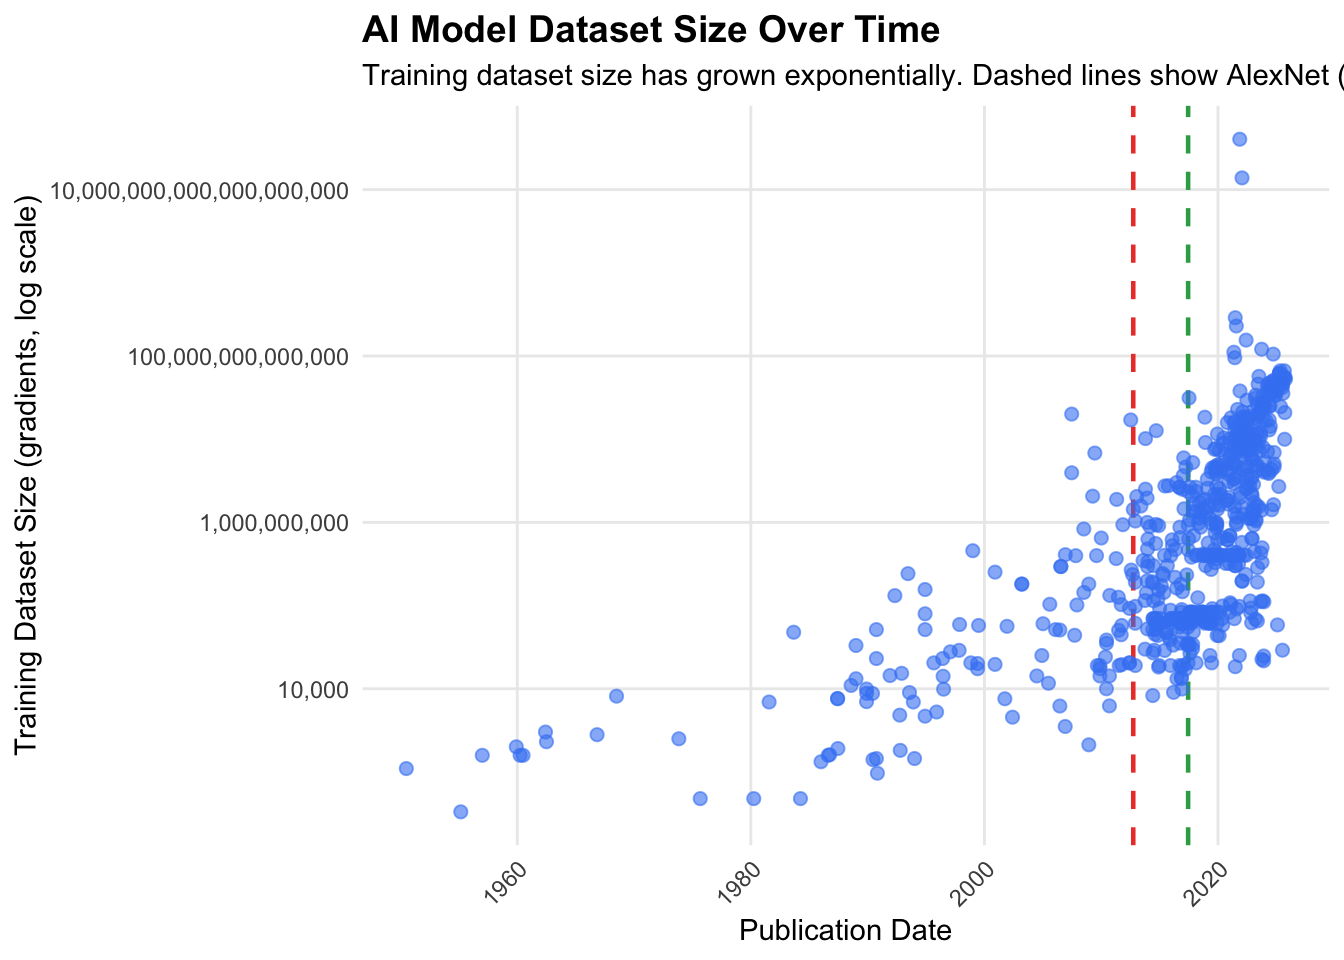
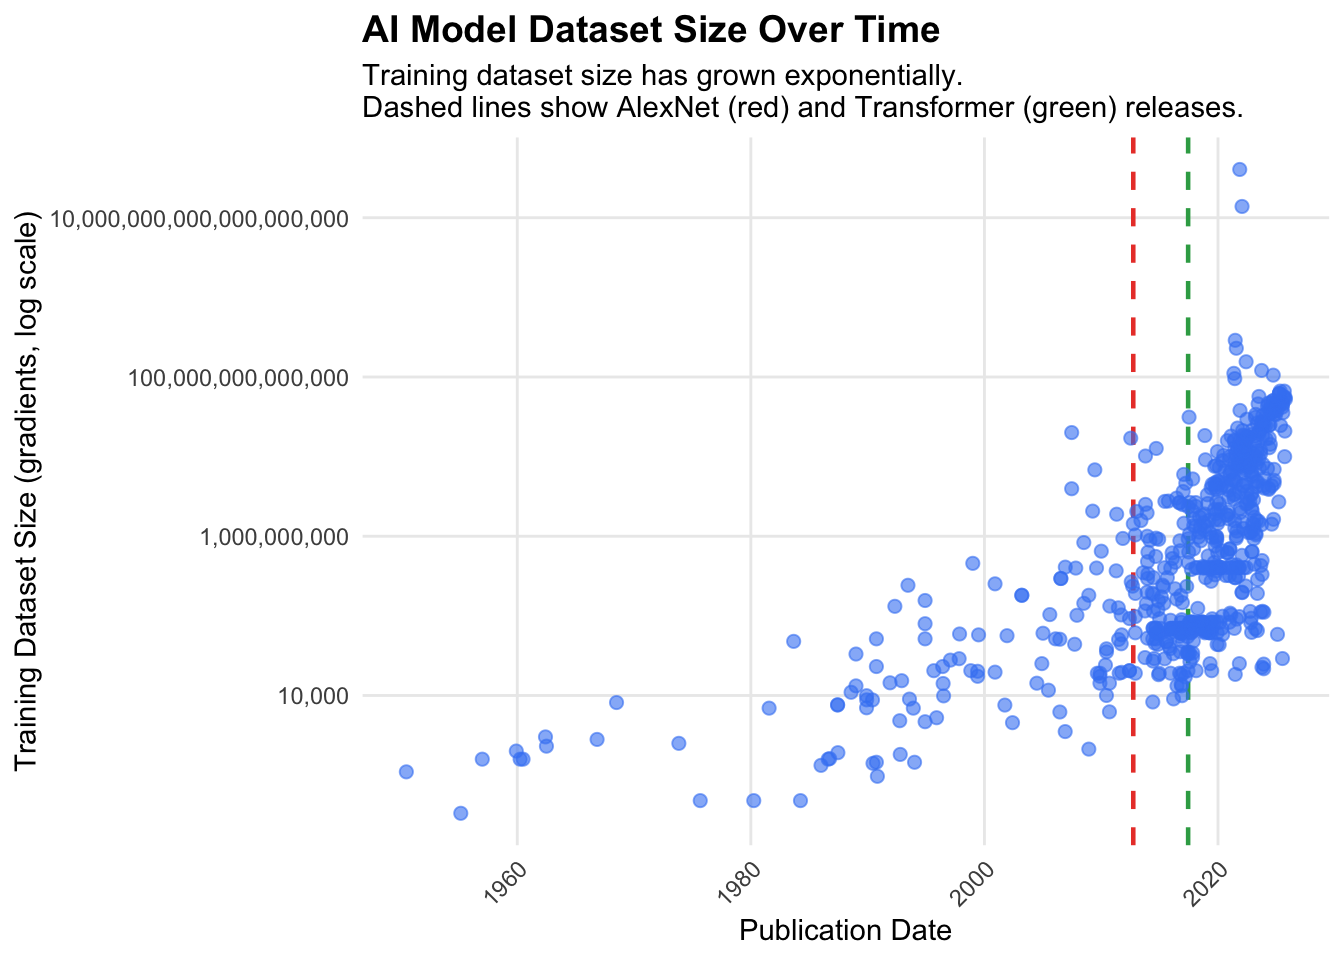
adding some missing value analysis

diff --git a/docs/results.html b/docs/results.html
@@ -501,7 +501,7 @@ pre > code.sourceCode > span > a:first-child::before { text-decoration: underlin
 <span id="cb6-68"><a href="#cb6-68" aria-hidden="true" tabindex="-1"></a>  <span class="co"># Labels and theme</span></span>
 <span id="cb6-69"><a href="#cb6-69" aria-hidden="true" tabindex="-1"></a>  <span class="fu">labs</span>(</span>
 <span id="cb6-70"><a href="#cb6-70" aria-hidden="true" tabindex="-1"></a>    <span class="at">title =</span> <span class="st">"AI Model Releases and GPU Cluster Deployment Timeline by Organization"</span>,</span>
-<span id="cb6-71"><a href="#cb6-71" aria-hidden="true" tabindex="-1"></a>    <span class="at">subtitle =</span> <span class="st">"Each panel shows models and GPU clusters for a single organization"</span>,</span>
+<span id="cb6-71"><a href="#cb6-71" aria-hidden="true" tabindex="-1"></a>    <span class="at">subtitle =</span> <span class="st">"Each panel shows models and GPU clusters</span><span class="sc">\n</span><span class="st">for a single organization"</span>,</span>
 <span id="cb6-72"><a href="#cb6-72" aria-hidden="true" tabindex="-1"></a>    <span class="at">x =</span> <span class="st">"Date"</span>,</span>
 <span id="cb6-73"><a href="#cb6-73" aria-hidden="true" tabindex="-1"></a>    <span class="at">y =</span> <span class="st">"Training Compute (FLOPs, log scale)"</span>,</span>
 <span id="cb6-74"><a href="#cb6-74" aria-hidden="true" tabindex="-1"></a>    <span class="at">caption =</span> <span class="st">"Vertical dashed lines represent GPU cluster first operational dates"</span></span>
@@ -582,7 +582,7 @@ pre > code.sourceCode > span > a:first-child::before { text-decoration: underlin
 <span id="cb9-16"><a href="#cb9-16" aria-hidden="true" tabindex="-1"></a>  <span class="co"># Labels and theme</span></span>
 <span id="cb9-17"><a href="#cb9-17" aria-hidden="true" tabindex="-1"></a>  <span class="fu">labs</span>(</span>
 <span id="cb9-18"><a href="#cb9-18" aria-hidden="true" tabindex="-1"></a>    <span class="at">title =</span> <span class="st">"OpenAI: Cumulative GPU Cluster Compute Over Time"</span>,</span>
-<span id="cb9-19"><a href="#cb9-19" aria-hidden="true" tabindex="-1"></a>    <span class="at">subtitle =</span> <span class="st">"Line shows compute growth; dashed lines indicate model releases"</span>,</span>
+<span id="cb9-19"><a href="#cb9-19" aria-hidden="true" tabindex="-1"></a>    <span class="at">subtitle =</span> <span class="st">"Line shows compute growth</span><span class="sc">\n</span><span class="st">Dashed lines indicate model releases"</span>,</span>
 <span id="cb9-20"><a href="#cb9-20" aria-hidden="true" tabindex="-1"></a>    <span class="at">x =</span> <span class="st">"Date"</span>,</span>
 <span id="cb9-21"><a href="#cb9-21" aria-hidden="true" tabindex="-1"></a>    <span class="at">y =</span> <span class="st">"Cumulative Compute (H100 equivalents, log scale)"</span>,</span>
 <span id="cb9-22"><a href="#cb9-22" aria-hidden="true" tabindex="-1"></a>    <span class="at">caption =</span> <span class="st">"Only existing clusters with known compute capacity included"</span></span>
@@ -675,7 +675,7 @@ pre > code.sourceCode > span > a:first-child::before { text-decoration: underlin
 <span id="cb10-63"><a href="#cb10-63" aria-hidden="true" tabindex="-1"></a>  <span class="co"># Labels and theme</span></span>
 <span id="cb10-64"><a href="#cb10-64" aria-hidden="true" tabindex="-1"></a>  <span class="fu">labs</span>(</span>
 <span id="cb10-65"><a href="#cb10-65" aria-hidden="true" tabindex="-1"></a>    <span class="at">title =</span> <span class="st">"Cumulative GPU Cluster Compute Over Time by Organization"</span>,</span>
-<span id="cb10-66"><a href="#cb10-66" aria-hidden="true" tabindex="-1"></a>    <span class="at">subtitle =</span> <span class="st">"Lines show compute growth; dashed lines indicate top 10 model releases by training compute"</span>,</span>
+<span id="cb10-66"><a href="#cb10-66" aria-hidden="true" tabindex="-1"></a>    <span class="at">subtitle =</span> <span class="st">"Lines show compute growth</span><span class="sc">\n</span><span class="st">Dashed lines indicate top 10 model releases by training compute"</span>,</span>
 <span id="cb10-67"><a href="#cb10-67" aria-hidden="true" tabindex="-1"></a>    <span class="at">x =</span> <span class="st">"Date"</span>,</span>
 <span id="cb10-68"><a href="#cb10-68" aria-hidden="true" tabindex="-1"></a>    <span class="at">y =</span> <span class="st">"Cumulative Compute (H100 equivalents, log scale)"</span>,</span>
 <span id="cb10-69"><a href="#cb10-69" aria-hidden="true" tabindex="-1"></a>    <span class="at">caption =</span> <span class="st">"Only organizations with GPU clusters; top 10 models by training compute shown"</span></span>
@@ -860,7 +860,7 @@ pre > code.sourceCode > span > a:first-child::before { text-decoration: underlin
 <span id="cb16-31"><a href="#cb16-31" aria-hidden="true" tabindex="-1"></a>  <span class="co"># Labels and theme</span></span>
 <span id="cb16-32"><a href="#cb16-32" aria-hidden="true" tabindex="-1"></a>  <span class="fu">labs</span>(</span>
 <span id="cb16-33"><a href="#cb16-33" aria-hidden="true" tabindex="-1"></a>    <span class="at">title =</span> <span class="st">"AI Model Dataset Size Over Time"</span>,</span>
-<span id="cb16-34"><a href="#cb16-34" aria-hidden="true" tabindex="-1"></a>    <span class="at">subtitle =</span> <span class="st">"Training dataset size has grown exponentially. Dashed lines show AlexNet (red) and Transformer (green) releases."</span>,</span>
+<span id="cb16-34"><a href="#cb16-34" aria-hidden="true" tabindex="-1"></a>    <span class="at">subtitle =</span> <span class="st">"Training dataset size has grown exponentially.</span><span class="sc">\n</span><span class="st">Dashed lines show AlexNet (red) and Transformer (green) releases."</span>,</span>
 <span id="cb16-35"><a href="#cb16-35" aria-hidden="true" tabindex="-1"></a>    <span class="at">x =</span> <span class="st">"Publication Date"</span>,</span>
 <span id="cb16-36"><a href="#cb16-36" aria-hidden="true" tabindex="-1"></a>    <span class="at">y =</span> <span class="st">"Training Dataset Size (gradients, log scale)"</span></span>
 <span id="cb16-37"><a href="#cb16-37" aria-hidden="true" tabindex="-1"></a>  ) <span class="sc">+</span></span>
@@ -940,7 +940,7 @@ pre > code.sourceCode > span > a:first-child::before { text-decoration: underlin
 <span id="cb17-51"><a href="#cb17-51" aria-hidden="true" tabindex="-1"></a>  <span class="co"># Labels and theme</span></span>
 <span id="cb17-52"><a href="#cb17-52" aria-hidden="true" tabindex="-1"></a>  <span class="fu">labs</span>(</span>
 <span id="cb17-53"><a href="#cb17-53" aria-hidden="true" tabindex="-1"></a>    <span class="at">title =</span> <span class="st">"Dataset Size Growth Rate Before and After Transformer"</span>,</span>
-<span id="cb17-54"><a href="#cb17-54" aria-hidden="true" tabindex="-1"></a>    <span class="at">subtitle =</span> <span class="st">"Yellow line: pre-Transformer growth. Green line: post-Transformer growth. Shaded areas show confidence intervals."</span>,</span>
+<span id="cb17-54"><a href="#cb17-54" aria-hidden="true" tabindex="-1"></a>    <span class="at">subtitle =</span> <span class="st">"Yellow line: pre-Transformer growth.</span><span class="sc">\n</span><span class="st">Green line: post-Transformer growth. Shaded areas show confidence intervals."</span>,</span>
 <span id="cb17-55"><a href="#cb17-55" aria-hidden="true" tabindex="-1"></a>    <span class="at">x =</span> <span class="st">"Publication Date"</span>,</span>
 <span id="cb17-56"><a href="#cb17-56" aria-hidden="true" tabindex="-1"></a>    <span class="at">y =</span> <span class="st">"Training Dataset Size (gradients, log scale)"</span></span>
 <span id="cb17-57"><a href="#cb17-57" aria-hidden="true" tabindex="-1"></a>  ) <span class="sc">+</span></span>
@@ -1022,7 +1022,7 @@ pre > code.sourceCode > span > a:first-child::before { text-decoration: underlin
 <span id="cb18-51"><a href="#cb18-51" aria-hidden="true" tabindex="-1"></a>  <span class="co"># Labels and theme</span></span>
 <span id="cb18-52"><a href="#cb18-52" aria-hidden="true" tabindex="-1"></a>  <span class="fu">labs</span>(</span>
 <span id="cb18-53"><a href="#cb18-53" aria-hidden="true" tabindex="-1"></a>    <span class="at">title =</span> <span class="st">"Model Parameters Growth Rate Before and After Transformer"</span>,</span>
-<span id="cb18-54"><a href="#cb18-54" aria-hidden="true" tabindex="-1"></a>    <span class="at">subtitle =</span> <span class="st">"Yellow line: pre-Transformer growth. Green line: post-Transformer growth. Shaded areas show confidence intervals."</span>,</span>
+<span id="cb18-54"><a href="#cb18-54" aria-hidden="true" tabindex="-1"></a>    <span class="at">subtitle =</span> <span class="st">"Yellow line: pre-Transformer growth.</span><span class="sc">\n</span><span class="st">Green line: post-Transformer growth. Shaded areas show confidence intervals."</span>,</span>
 <span id="cb18-55"><a href="#cb18-55" aria-hidden="true" tabindex="-1"></a>    <span class="at">x =</span> <span class="st">"Publication Date"</span>,</span>
 <span id="cb18-56"><a href="#cb18-56" aria-hidden="true" tabindex="-1"></a>    <span class="at">y =</span> <span class="st">"Parameters (log scale)"</span></span>
 <span id="cb18-57"><a href="#cb18-57" aria-hidden="true" tabindex="-1"></a>  ) <span class="sc">+</span></span>
